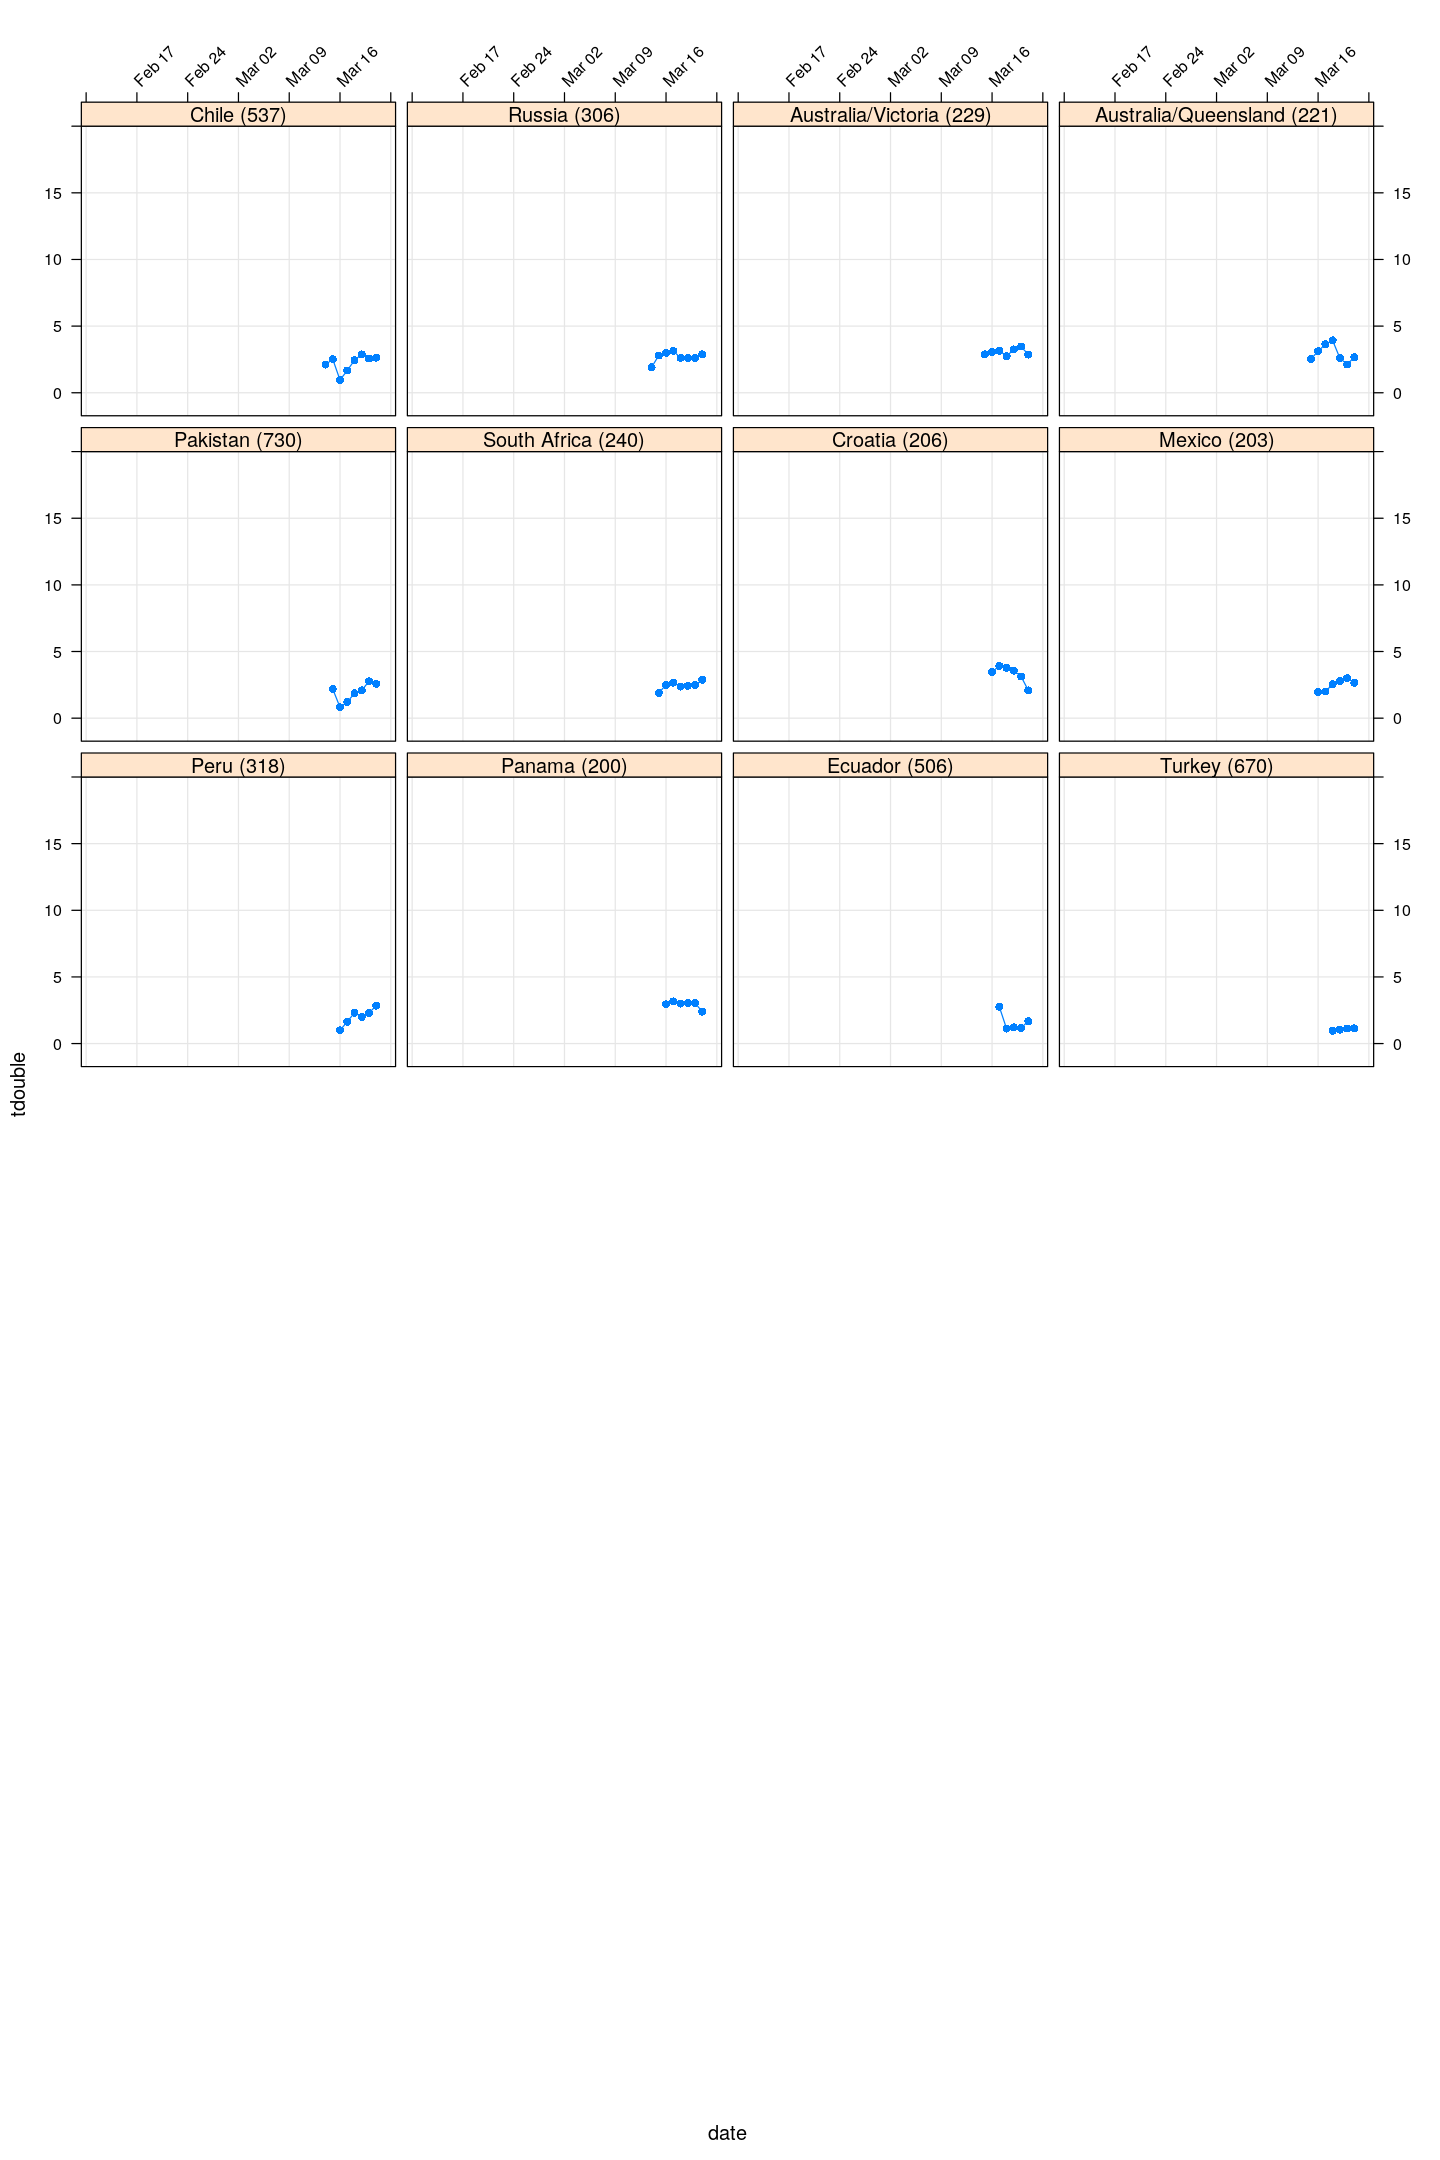
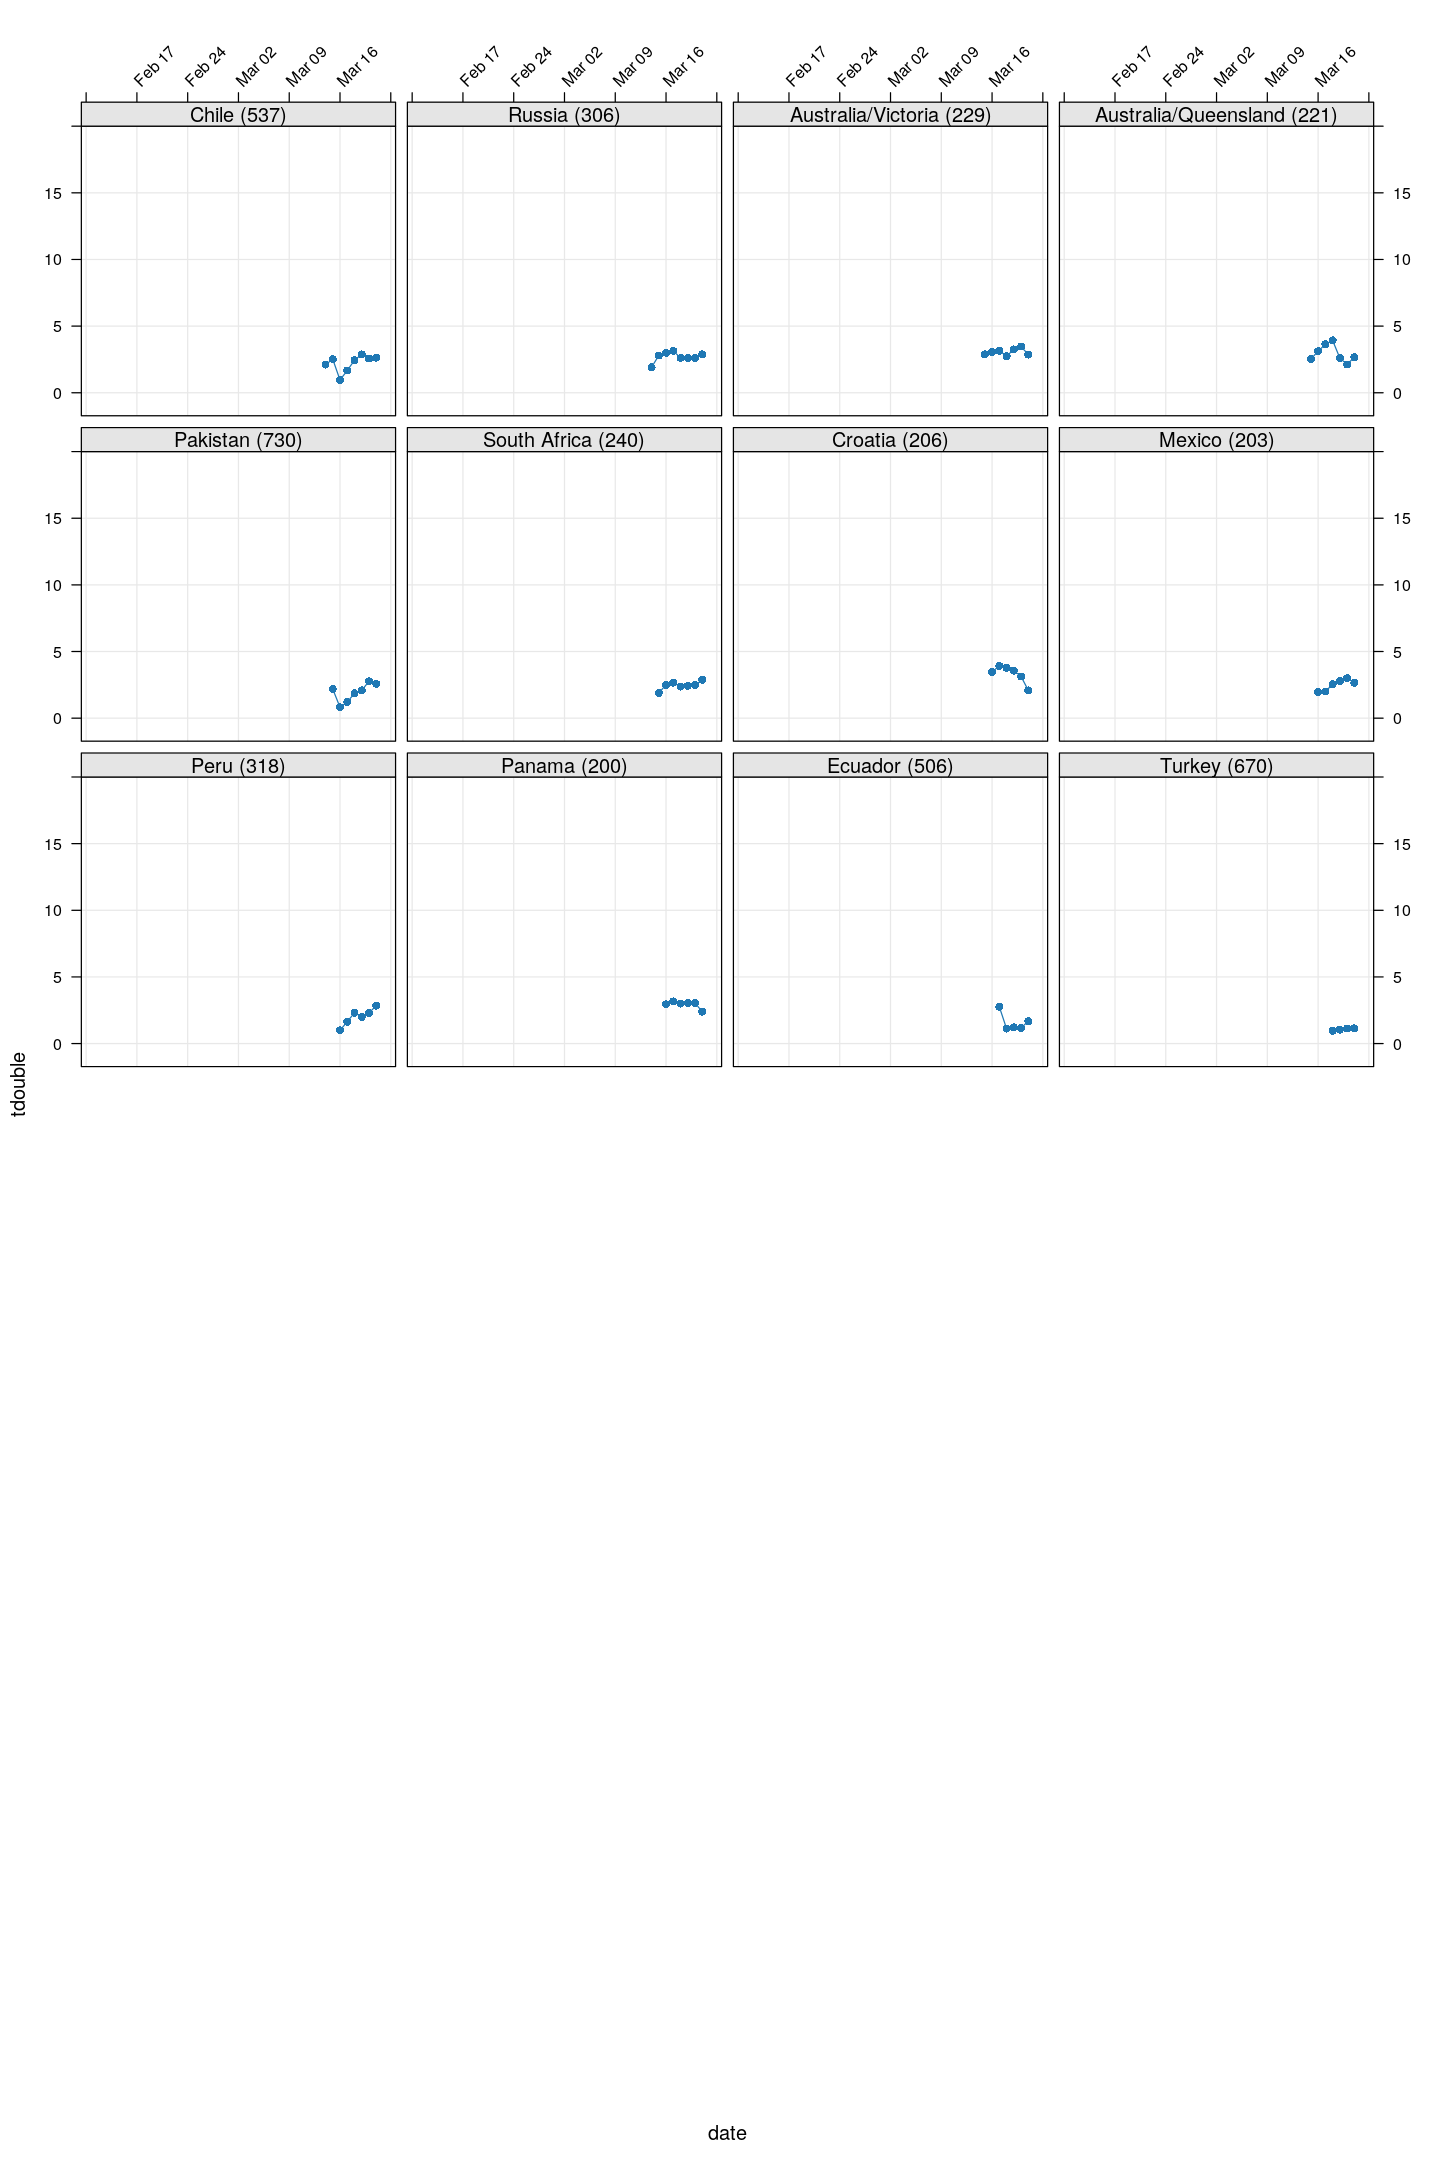
update figure theme

Changed region(s): [[0.0625, 0.1551, 0.9688, 0.2171], [0.0625, 0.3412, 0.9688, 0.3722], [0.0625, 0.031, 0.9688, 0.062]]

diff --git a/assets/styles/custom.css b/assets/styles/custom.css
@@ -14,7 +14,7 @@ pre.highlight
 {
     padding: 0.5em;
     font-weight: normal;
-    font-size: 95%;
+    font-size: 90%;
 }
 
 @media screen {
@@ -22,7 +22,7 @@ pre.highlight
     {
 	font-family: 'Noto Sans TC';
     }
-    h1, h2
+    h1, h2, h3
     {
 	font-family: 'Noto Serif TC';
     }
